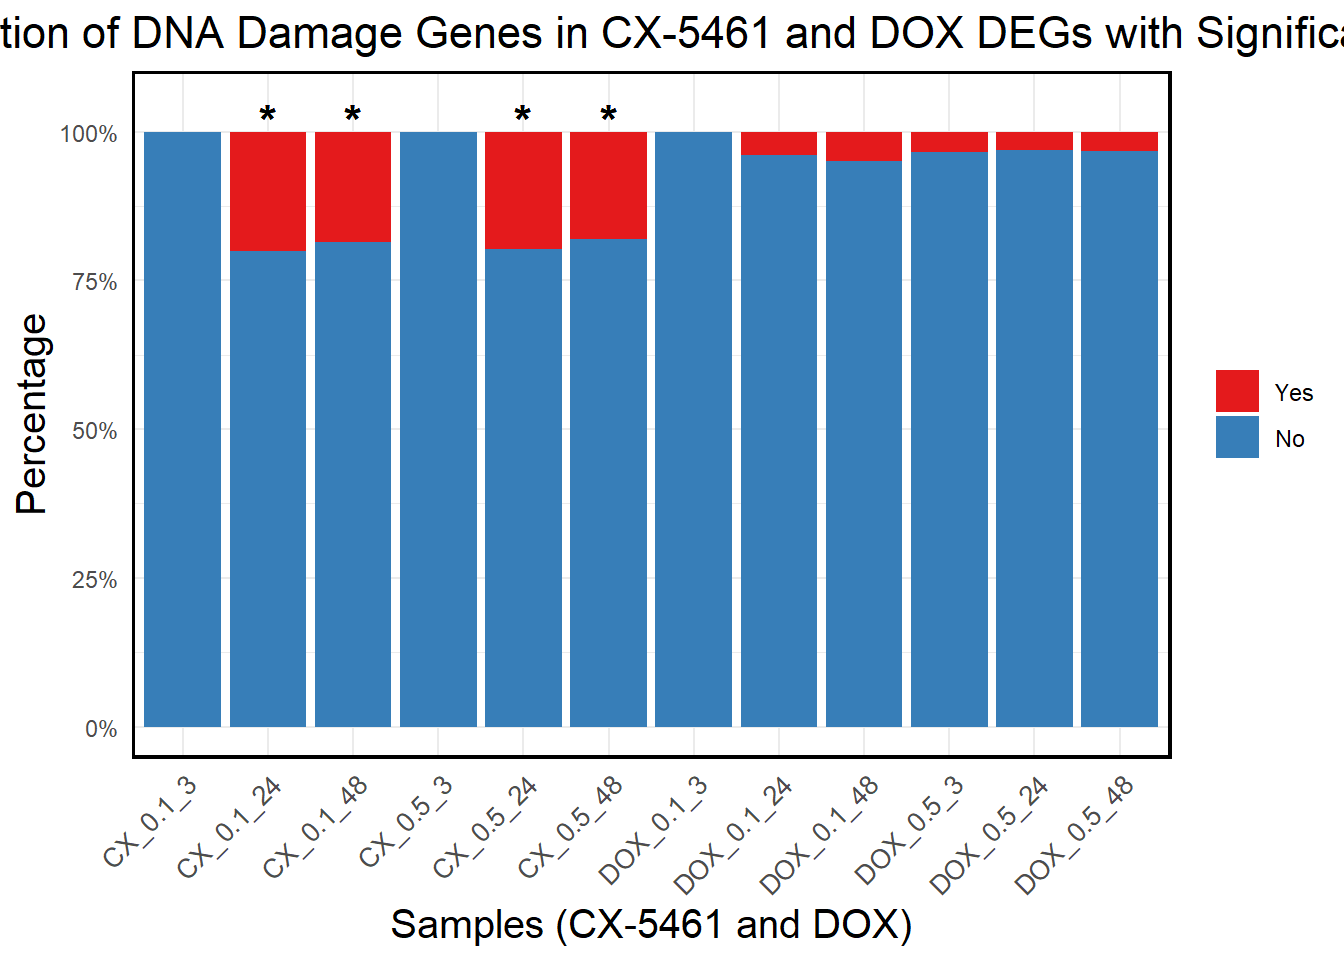
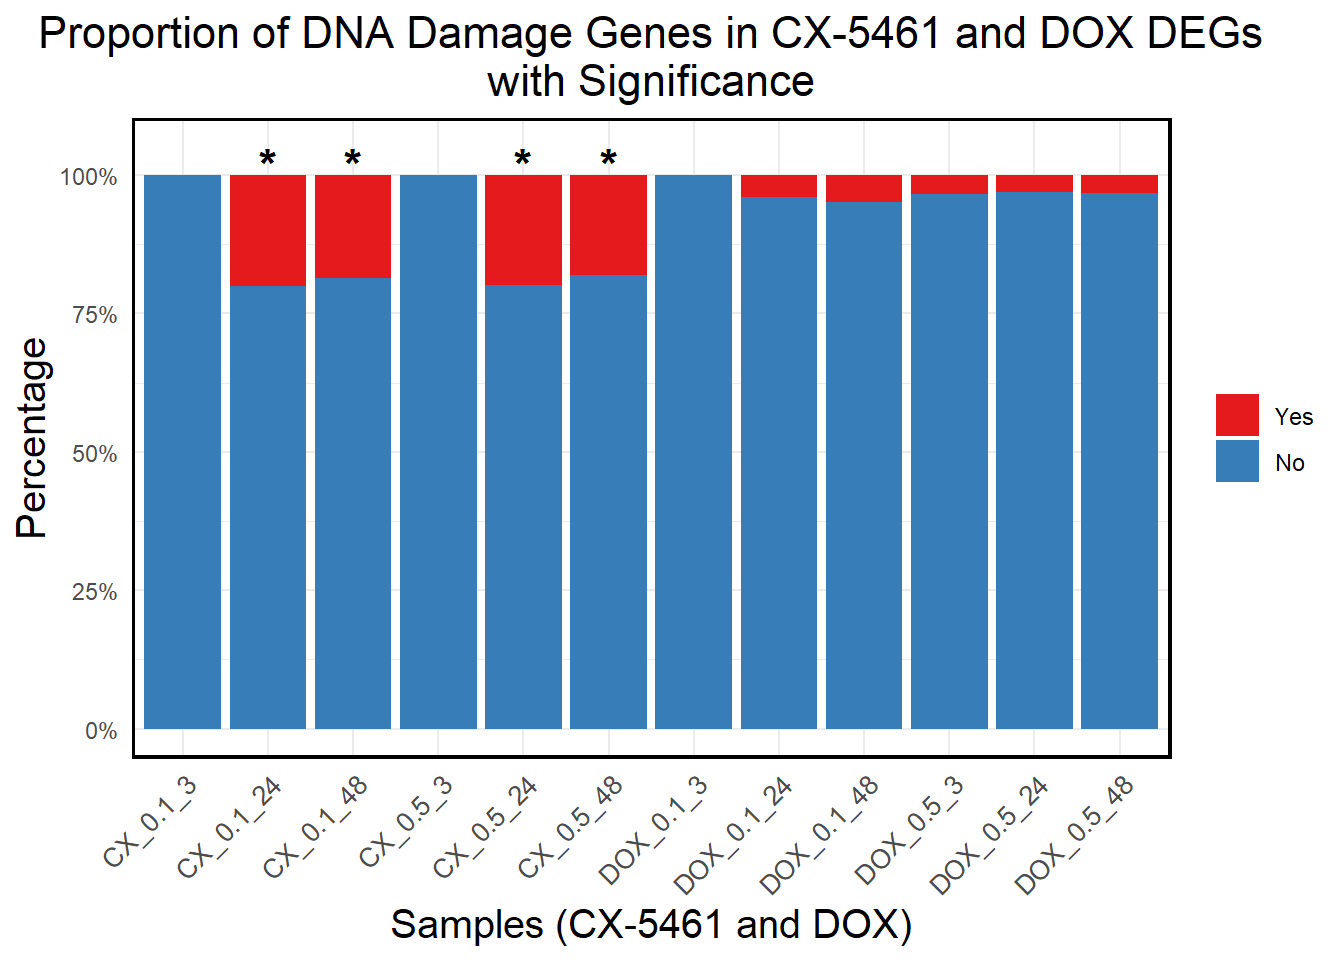
Build site.

diff --git a/docs/Cardiac_and_TOP2_Genes.html b/docs/Cardiac_and_TOP2_Genes.html
@@ -510,15 +510,15 @@ project makes it easier to run your code on other machines.</p>
 <div class="panel panel-default">
 <div class="panel-heading">
 <p class="panel-title">
-<a data-toggle="collapse" data-parent="#workflowr-checks" href="#strongRepositoryversionstrongahrefhttpsgithubcomsayanpaul01CX5461Projecttree565ede2e548ade39425a2be455d3cd0d62edf158targetblank565ede2a">
+<a data-toggle="collapse" data-parent="#workflowr-checks" href="#strongRepositoryversionstrongahrefhttpsgithubcomsayanpaul01CX5461Projecttree1b220adf2523368d0132d73371074f673839cf15targetblank1b220ada">
 <span class="glyphicon glyphicon-ok text-success"
 aria-hidden="true"></span> <strong>Repository version:</strong>
-<a href="https://github.com/sayanpaul01/CX5461_Project/tree/565ede2e548ade39425a2be455d3cd0d62edf158" target="_blank">565ede2</a>
+<a href="https://github.com/sayanpaul01/CX5461_Project/tree/1b220adf2523368d0132d73371074f673839cf15" target="_blank">1b220ad</a>
 </a>
 </p>
 </div>
 <div
[2 lines of base64/hex data omitted]
 class="panel-collapse collapse">
 <div class="panel-body">
 <p>
@@ -528,7 +528,7 @@ reproducibility.
 </p>
 <p>
 The results in this page were generated with repository version
-<a href="https://github.com/sayanpaul01/CX5461_Project/tree/565ede2e548ade39425a2be455d3cd0d62edf158" target="_blank">565ede2</a>.
+<a href="https://github.com/sayanpaul01/CX5461_Project/tree/1b220adf2523368d0132d73371074f673839cf15" target="_blank">1b220ad</a>.
 See the <em>Past versions</em> tab to see a history of the changes made
 to the R Markdown and HTML files.
 </p>
@@ -595,6 +595,40 @@ Message
 </tr>
 </thead>
 <tbody>
+<tr>
+<td>
+Rmd
+</td>
+<td>
+<a href="https://github.com/sayanpaul01/CX5461_Project/blob/1b220adf2523368d0132d73371074f673839cf15/analysis/Cardiac_and_TOP2_Genes.Rmd" target="_blank">1b220ad</a>
+</td>
+<td>
+sayanpaul01
+</td>
+<td>
+2025-02-18
+</td>
+<td>
+Updated analysis of Cardiac, TOP2, and DNA Damage Genes
+</td>
+</tr>
+<tr>
+<td>
+html
+</td>
+<td>
+<a href="https://rawcdn.githack.com/sayanpaul01/CX5461_Project/0a7f53eb3fdbf5160350e69f74f931b54aa0e73a/docs/Cardiac_and_TOP2_Genes.html" target="_blank">0a7f53e</a>
+</td>
+<td>
+sayanpaul01
+</td>
+<td>
+2025-02-18
+</td>
+<td>
+Build site.
+</td>
+</tr>
 <tr>
 <td>
 Rmd
@@ -1854,7 +1888,7 @@ ggplot(proportion_data, aes(x = Sample, y = Percentage, fill = Category)) +
   scale_y_continuous(labels = scales::percent_format(scale = 1), limits = c(0, 105)) +
   scale_fill_manual(values = c(&quot;Yes&quot; = &quot;#e41a1c&quot;, &quot;No&quot; = &quot;#377eb8&quot;)) +
   labs(
-    title = &quot;Proportion of DNA Damage Genes in CX-5461 and DOX DEGs with Significance&quot;,
+    title = &quot;Proportion of DNA Damage Genes in CX-5461 and DOX DEGs\nwith Significance&quot;,
     x = &quot;Samples (CX-5461 and DOX)&quot;,
     y = &quot;Percentage&quot;,
     fill = &quot;Category&quot;
@@ -1870,6 +1904,43 @@ ggplot(proportion_data, aes(x = Sample, y = Percentage, fill = Category)) +
     strip.text = element_text(size = 12, face = &quot;bold&quot;)
   )</code></pre>
 <p><img src="figure/Cardiac_and_TOP2_Genes.Rmd/ggplot-1.png" width="672" style="display: block; margin: auto;" /></p>
+<p>
+<button type="button" class="btn btn-default btn-xs btn-workflowr btn-workflowr-fig" data-toggle="collapse" data-target="#fig-ggplot-1">
+Past versions of ggplot-1.png
+</button>
+</p>
+<div id="fig-ggplot-1" class="collapse">
+<div class="table-responsive">
+<table class="table table-condensed table-hover">
+<thead>
+<tr>
+<th>
+Version
+</th>
+<th>
+Author
+</th>
+<th>
+Date
+</th>
+</tr>
+</thead>
+<tbody>
+<tr>
+<td>
+<a href="https://github.com/sayanpaul01/CX5461_Project/blob/0a7f53eb3fdbf5160350e69f74f931b54aa0e73a/docs/figure/Cardiac_and_TOP2_Genes.Rmd/ggplot-1.png" target="_blank">0a7f53e</a>
+</td>
+<td>
+sayanpaul01
+</td>
+<td>
+2025-02-18
+</td>
+</tr>
+</tbody>
+</table>
+</div>
+</div>
 <br>
 <p>
 <button type="button" class="btn btn-default btn-workflowr btn-workflowr-sessioninfo" data-toggle="collapse" data-target="#workflowr-sessioninfo" style="display: block;">
